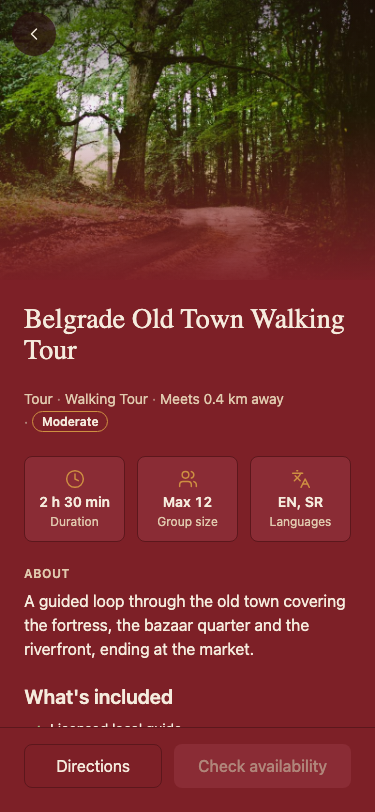
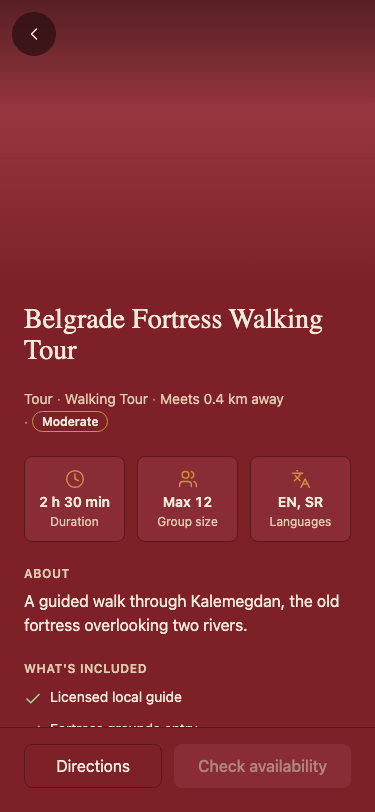
fix(app): T10 resolve pass — checklist a11y polarity, shared heading style
Address review round 1: ✗ rows now carry an accessible name distinct from
✓ rows (VoiceOver/TalkBack no longer inverts What's-included meaning), and
UniqueSection's heading style is corrected + exported so Tours' Meeting
point heading can't drift from a sibling task's fix to the same shared
style. Also closes 6 of 8 Minors (key collision, Itinerary's numbered-stop
badge, stale comment, reviews-absent test coverage) and documents the
remaining 2 as deliberate/out-of-scope.

diff --git a/app/src/features/activity-list/UniqueSection.tsx b/app/src/features/activity-list/UniqueSection.tsx
@@ -1,5 +1,5 @@
 import type { ComponentType } from 'react';
-import { StyleSheet, Text, View } from 'react-native';
+import { StyleSheet, Text, View, type TextStyle } from 'react-native';
 import { LinearGradient } from 'expo-linear-gradient';
 import {
   Baby,
@@ -29,6 +29,18 @@ const FACILITY_ICONS: [RegExp, ComponentType<LucideProps>][] = [
 function facilityIcon(label: string): ComponentType<LucideProps> {
   return FACILITY_ICONS.find(([re]) => re.test(label))?.[1] ?? CircleCheck;
 }
+
+// The 12px uppercase muted overline used for every UniqueSection heading —
+// matches ProseBlock's "About" heading (fontSize.xs, uppercase, textMuted,
+// 600). Exported so other screens compose a section using this same
+// treatment (e.g. Tours' "Meeting point") without hand-copying the tokens.
+export const sectionHeadingStyle: TextStyle = {
+  fontSize: fontSize.xs,
+  textTransform: 'uppercase',
+  letterSpacing: fontSize.xs * 0.05,
+  color: colors.textMuted,
+  fontWeight: '600',
+};
 
 type UniqueSectionProps = { data: UniqueSectionData | undefined };
 
@@ -79,7 +91,18 @@ export function UniqueSection({ data }: UniqueSectionProps) {
       {data.shape === 'checklist' && (
         <View style={styles.checklist}>
           {data.items.map((item) => (
-            <View key={item} style={styles.checkRow}>
+            <View
+              key={item}
+              style={styles.checkRow}
+              // Polarity lives only in the icon glyph+color otherwise, which
+              // assistive tech can't read — the two-polarity checklist
+              // (Tours' `crossItems` present) needs an explicit accessible
+              // name per row; the plain single-polarity checklist every
+              // other category uses keeps its heading-carries-polarity
+              // behavior unchanged (props below are no-ops there).
+              accessible={data.crossItems !== undefined ? true : undefined}
+              accessibilityLabel={data.crossItems !== undefined ? `Included: ${item}` : undefined}
+            >
               <Check
                 size={18}
                 // design-import mockup's slot #8 "extended" note: the ✓/✗
@@ -100,7 +123,12 @@ export function UniqueSection({ data }: UniqueSectionProps) {
               checklist consumer never sets `crossItems`, so this simply
               never renders for them. */}
           {data.crossItems?.map((item) => (
-            <View key={item} style={styles.checkRow}>
+            <View
+              key={`x-${item}`}
+              style={styles.checkRow}
+              accessible
+              accessibilityLabel={`Not included: ${item}`}
+            >
               <X size={18} color={colors.error} strokeWidth={2.2} style={styles.checkIcon} />
               <Text style={styles.checkText}>{item}</Text>
             </View>
@@ -153,7 +181,13 @@ export function UniqueSection({ data }: UniqueSectionProps) {
               key={i}
               style={[styles.compactRow, i > 0 && styles.hairlineTop]}
             >
-              <Text style={styles.compactLeading}>{row.leading}</Text>
+              {row.leadingStyle === 'number' ? (
+                <View style={styles.compactLeadingBadge}>
+                  <Text style={styles.compactLeadingBadgeText}>{row.leading}</Text>
+                </View>
+              ) : (
+                <Text style={styles.compactLeading}>{row.leading}</Text>
+              )}
               <Text style={styles.compactMain}>{row.main}</Text>
               {row.trailing ? (
                 <Text
@@ -230,17 +264,7 @@ const styles = StyleSheet.create({
   section: {
     gap: space[3],
   },
-  // T7 round-2 fix: matches ProseBlock's heading tokens exactly — every
-  // unique-section heading in the mockup is a 12px uppercase muted overline
-  // (same treatment as the "ABOUT" description heading on the same screen),
-  // not a loud cream sentence-case heading.
-  heading: {
-    fontSize: fontSize.xs,
-    textTransform: 'uppercase',
-    letterSpacing: fontSize.xs * 0.05,
-    color: colors.textMuted,
-    fontWeight: '600',
-  },
+  heading: sectionHeadingStyle,
   // Shape A — name+price list
   nameRow: {
     flexDirection: 'row',
@@ -375,6 +399,24 @@ const styles = StyleSheet.create({
     fontWeight: '700',
     color: colors.text,
     fontVariant: ['tabular-nums'],
+  },
+  // Itinerary's numbered-stop leading treatment (mockup: 22px gold-bordered
+  // circle) — replaces the wide time-sized text column above for rows
+  // opted into it via `leadingStyle: 'number'`.
+  compactLeadingBadge: {
+    width: 22,
+    height: 22,
+    borderRadius: 11,
+    borderWidth: 1,
+    borderColor: colors.primary,
+    alignItems: 'center',
+    justifyContent: 'center',
+    flexShrink: 0,
+  },
+  compactLeadingBadgeText: {
+    fontSize: fontSize.xs,
+    fontWeight: '600',
+    color: colors.primary,
   },
   compactMain: {
     flex: 1,

diff --git a/app/src/features/activity-list/UniqueSection.test.tsx b/app/src/features/activity-list/UniqueSection.test.tsx
@@ -57,6 +57,33 @@ describe('UniqueSection', () => {
     expect(screen.getByText('Museum tickets')).toBeTruthy();
   });
 
+  // Polarity lives only in icon glyph+color otherwise — assistive tech would
+  // read a ✗ row as if it were included. Only the two-polarity checklist
+  // (crossItems present) needs this; the plain single-polarity checklist's
+  // heading already carries the polarity.
+  it('shape C (checklist, ✗ variant): each row carries an accessible name that states its included/not-included state', () => {
+    const data: UniqueSectionData = {
+      shape: 'checklist',
+      heading: "What's included",
+      items: ['Licensed local guide'],
+      crossItems: ['Museum tickets'],
+    };
+    render(<UniqueSection data={data} />);
+    expect(screen.getByLabelText('Included: Licensed local guide')).toBeTruthy();
+    expect(screen.getByLabelText('Not included: Museum tickets')).toBeTruthy();
+  });
+
+  it('shape C (plain checklist, no crossItems): rows carry no accessible-name override', () => {
+    const data: UniqueSectionData = {
+      shape: 'checklist',
+      heading: 'Good to know',
+      items: ['Bring water'],
+    };
+    render(<UniqueSection data={data} />);
+    expect(screen.queryByLabelText('Included: Bring water')).toBeNull();
+    expect(screen.getByText('Bring water')).toBeTruthy();
+  });
+
   it('shape C (checklist, ✗ variant): renders the ✓ list alone when crossItems is empty', () => {
     const data: UniqueSectionData = {
       shape: 'checklist',
@@ -177,6 +204,31 @@ describe('UniqueSection', () => {
     expect(screen.getByText('23:00')).toBeTruthy();
     expect(screen.getByText('DJ Nina')).toBeTruthy();
     expect(screen.getByText('Main stage')).toBeTruthy();
+  });
+
+  // Tours & Experiences' Itinerary (T10) — numbered-stop leading badge
+  // instead of the plain time-sized text column every other compact
+  // consumer (Nightlife/Wellness) uses.
+  it('shape F (schedule, compact density, leadingStyle: number): renders the leading value inside a circular badge, not the plain text column', () => {
+    const data: UniqueSectionData = {
+      shape: 'schedule',
+      heading: 'Itinerary',
+      density: 'compact',
+      rows: [{ leading: '1', main: 'Fortress', leadingStyle: 'number' }],
+    };
+    render(<UniqueSection data={data} />);
+    const leadingText = screen.getByText('1');
+    expect(screen.getByText('Fortress')).toBeTruthy();
+    // Plain leading text is a width: 52 tabular-nums column (compactLeading);
+    // a numbered row uses the badge's text style (compactLeadingBadgeText)
+    // instead, and its immediate parent is the 22x22 circular badge.
+    expect(leadingText.props.style).not.toMatchObject({ width: 52 });
+    expect(leadingText.props.style).toMatchObject({ fontSize: 12, color: '#CE9042' });
+    expect(leadingText.parent?.parent?.props.style).toMatchObject({
+      width: 22,
+      height: 22,
+      borderRadius: 11,
+    });
   });
 
   // design-spec.md's List rows "duration" density (§B6, new).

diff --git a/app/src/features/activity-list/activityDetailConfig.ts b/app/src/features/activity-list/activityDetailConfig.ts
@@ -48,6 +48,11 @@ export type CompactRow = {
   main: string;
   trailing?: string;
   trailingStyle?: 'muted' | 'price';
+  // Mockup's Itinerary rows render `leading` as a 22px gold-bordered numbered
+  // circle instead of the plain wide text column sized for a time (e.g.
+  // Nightlife's `21:00`) — every other `compact` consumer omits this and
+  // keeps the existing text treatment.
+  leadingStyle?: 'number';
 };
 export type DateBlockRow = {
   day: string;
@@ -315,8 +320,11 @@ export function wellnessBookingNote(activity: Activity): string | undefined {
 // would double the same figure on the exact production-bug screen. T7:
 // Nightlife's spec bottom bar is `From €10` + `Guest list` — same field
 // (`entry_price`) already feeds the Entry stat-grid chip, same doubling
-// pattern Entertainment already established for `price_from`. T10 adds
-// Tours' starting-price field when that screen lands.
+// pattern Entertainment already established for `price_from`. T10 checked:
+// `ToursExperiencesDetails` (backend/shared/models/activitiessvc/activity.go)
+// has no price field of any kind, so Tours structurally can't populate this
+// slot — needs a product decision (new backend field), not an app-side fix;
+// see engineering-notes.md T10.
 export function priceContextLine(activity: Activity): string | undefined {
   const d = activity.details;
   if (!d) return undefined;
@@ -1007,7 +1015,11 @@ export function toursItinerary(activity: Activity): UniqueSectionData | undefine
     shape: 'schedule',
     heading: 'Itinerary',
     density: 'compact',
-    rows: stops.map((stop, i) => ({ leading: String(i + 1), main: stop })),
+    rows: stops.map((stop, i) => ({
+      leading: String(i + 1),
+      main: stop,
+      leadingStyle: 'number' as const,
+    })),
   };
 }
 

diff --git a/app/src/features/activity-list/ActivityDetailScreen.tsx b/app/src/features/activity-list/ActivityDetailScreen.tsx
@@ -81,7 +81,7 @@ import { PhotoViewerModal } from './PhotoViewerModal';
 import { ProseBlock } from './ProseBlock';
 import { ReviewsSection } from './ReviewsSection';
 import { TripadvisorBlock } from './TripadvisorBlock';
-import { UniqueSection } from './UniqueSection';
+import { UniqueSection, sectionHeadingStyle } from './UniqueSection';
 import { WeekHoursModal } from './WeekHoursModal';
 
 // design-spec.md's T4 "Shared base layout" section: hero photo carousel
@@ -505,7 +505,7 @@ export function ActivityDetailScreen({
               {toursChecklist && <UniqueSection data={toursChecklist} />}
               {meetingPointText && (
                 <View style={styles.toursMeetingPoint}>
-                  <Text style={styles.uniqueSectionHeading}>Meeting point</Text>
+                  <Text style={sectionHeadingStyle}>Meeting point</Text>
                   {renderMapBox()}
                   <View style={styles.toursMeetingPointAddressRow}>
                     <MapPin size={15} color={colors.textMuted} strokeWidth={1.75} />
@@ -982,14 +982,6 @@ const styles = StyleSheet.create({
   },
   toursMeetingPoint: {
     gap: space[3],
-  },
-  // Matches UniqueSection.tsx's own (unexported) `heading` style exactly —
-  // duplicated rather than imported since that style object isn't exported
-  // and this is the section's only consumer outside that file.
-  uniqueSectionHeading: {
-    fontSize: fontSize.lg,
-    fontWeight: '600',
-    color: colors.text,
   },
   toursMeetingPointAddressRow: {
     flexDirection: 'row',

diff --git a/app/src/features/activity-list/ActivityDetailScreen.test.tsx b/app/src/features/activity-list/ActivityDetailScreen.test.tsx
@@ -2257,6 +2257,8 @@ describe('ActivityDetailScreen', () => {
       expect(screen.queryByRole('button', { name: 'Read all reviews on Tripadvisor' })).toBeNull();
       expect(screen.queryByTestId('reviews-skeleton')).toBeNull();
       expect(screen.queryByText('Reviews')).toBeNull();
+      expect(screen.queryByTestId('google-attribution-plate-detail')).toBeNull();
+      expect(screen.queryByTestId('google-attribution-plate-footer')).toBeNull();
     });
   });
 
@@ -2362,9 +2364,11 @@ describe('ActivityDetailScreen', () => {
       expect(screen.getByRole('button', { name: 'Directions' })).toBeTruthy();
     });
 
-    it('renders no reviews section for the full-data composition either (still no provider)', () => {
+    it('renders no reviews section and no attribution plate for the full-data composition either (still no provider)', () => {
       render(<ActivityDetailScreen activity={toursFull} showDistance onBack={jest.fn()} />);
       expect(screen.queryByText('Reviews')).toBeNull();
+      expect(screen.queryByTestId('google-attribution-plate-detail')).toBeNull();
+      expect(screen.queryByTestId('google-attribution-plate-footer')).toBeNull();
     });
   });
 

diff --git a/app/src/features/activity-list/activityDetailConfig.test.ts b/app/src/features/activity-list/activityDetailConfig.test.ts
@@ -1328,9 +1328,9 @@ describe('toursItinerary — numbered compact rows (T10)', () => {
       heading: 'Itinerary',
       density: 'compact',
       rows: [
-        { leading: '1', main: 'Fortress' },
-        { leading: '2', main: 'Bazaar quarter' },
-        { leading: '3', main: 'Riverfront market' },
+        { leading: '1', main: 'Fortress', leadingStyle: 'number' },
+        { leading: '2', main: 'Bazaar quarter', leadingStyle: 'number' },
+        { leading: '3', main: 'Riverfront market', leadingStyle: 'number' },
       ],
     });
   });
@@ -1343,8 +1343,8 @@ describe('toursItinerary — numbered compact rows (T10)', () => {
     const section = toursItinerary(activity);
     if (section?.shape !== 'schedule') throw new Error('expected schedule shape');
     expect(section.rows).toEqual([
-      { leading: '1', main: 'Fortress' },
-      { leading: '2', main: 'Riverfront market' },
+      { leading: '1', main: 'Fortress', leadingStyle: 'number' },
+      { leading: '2', main: 'Riverfront market', leadingStyle: 'number' },
     ]);
   });
 
